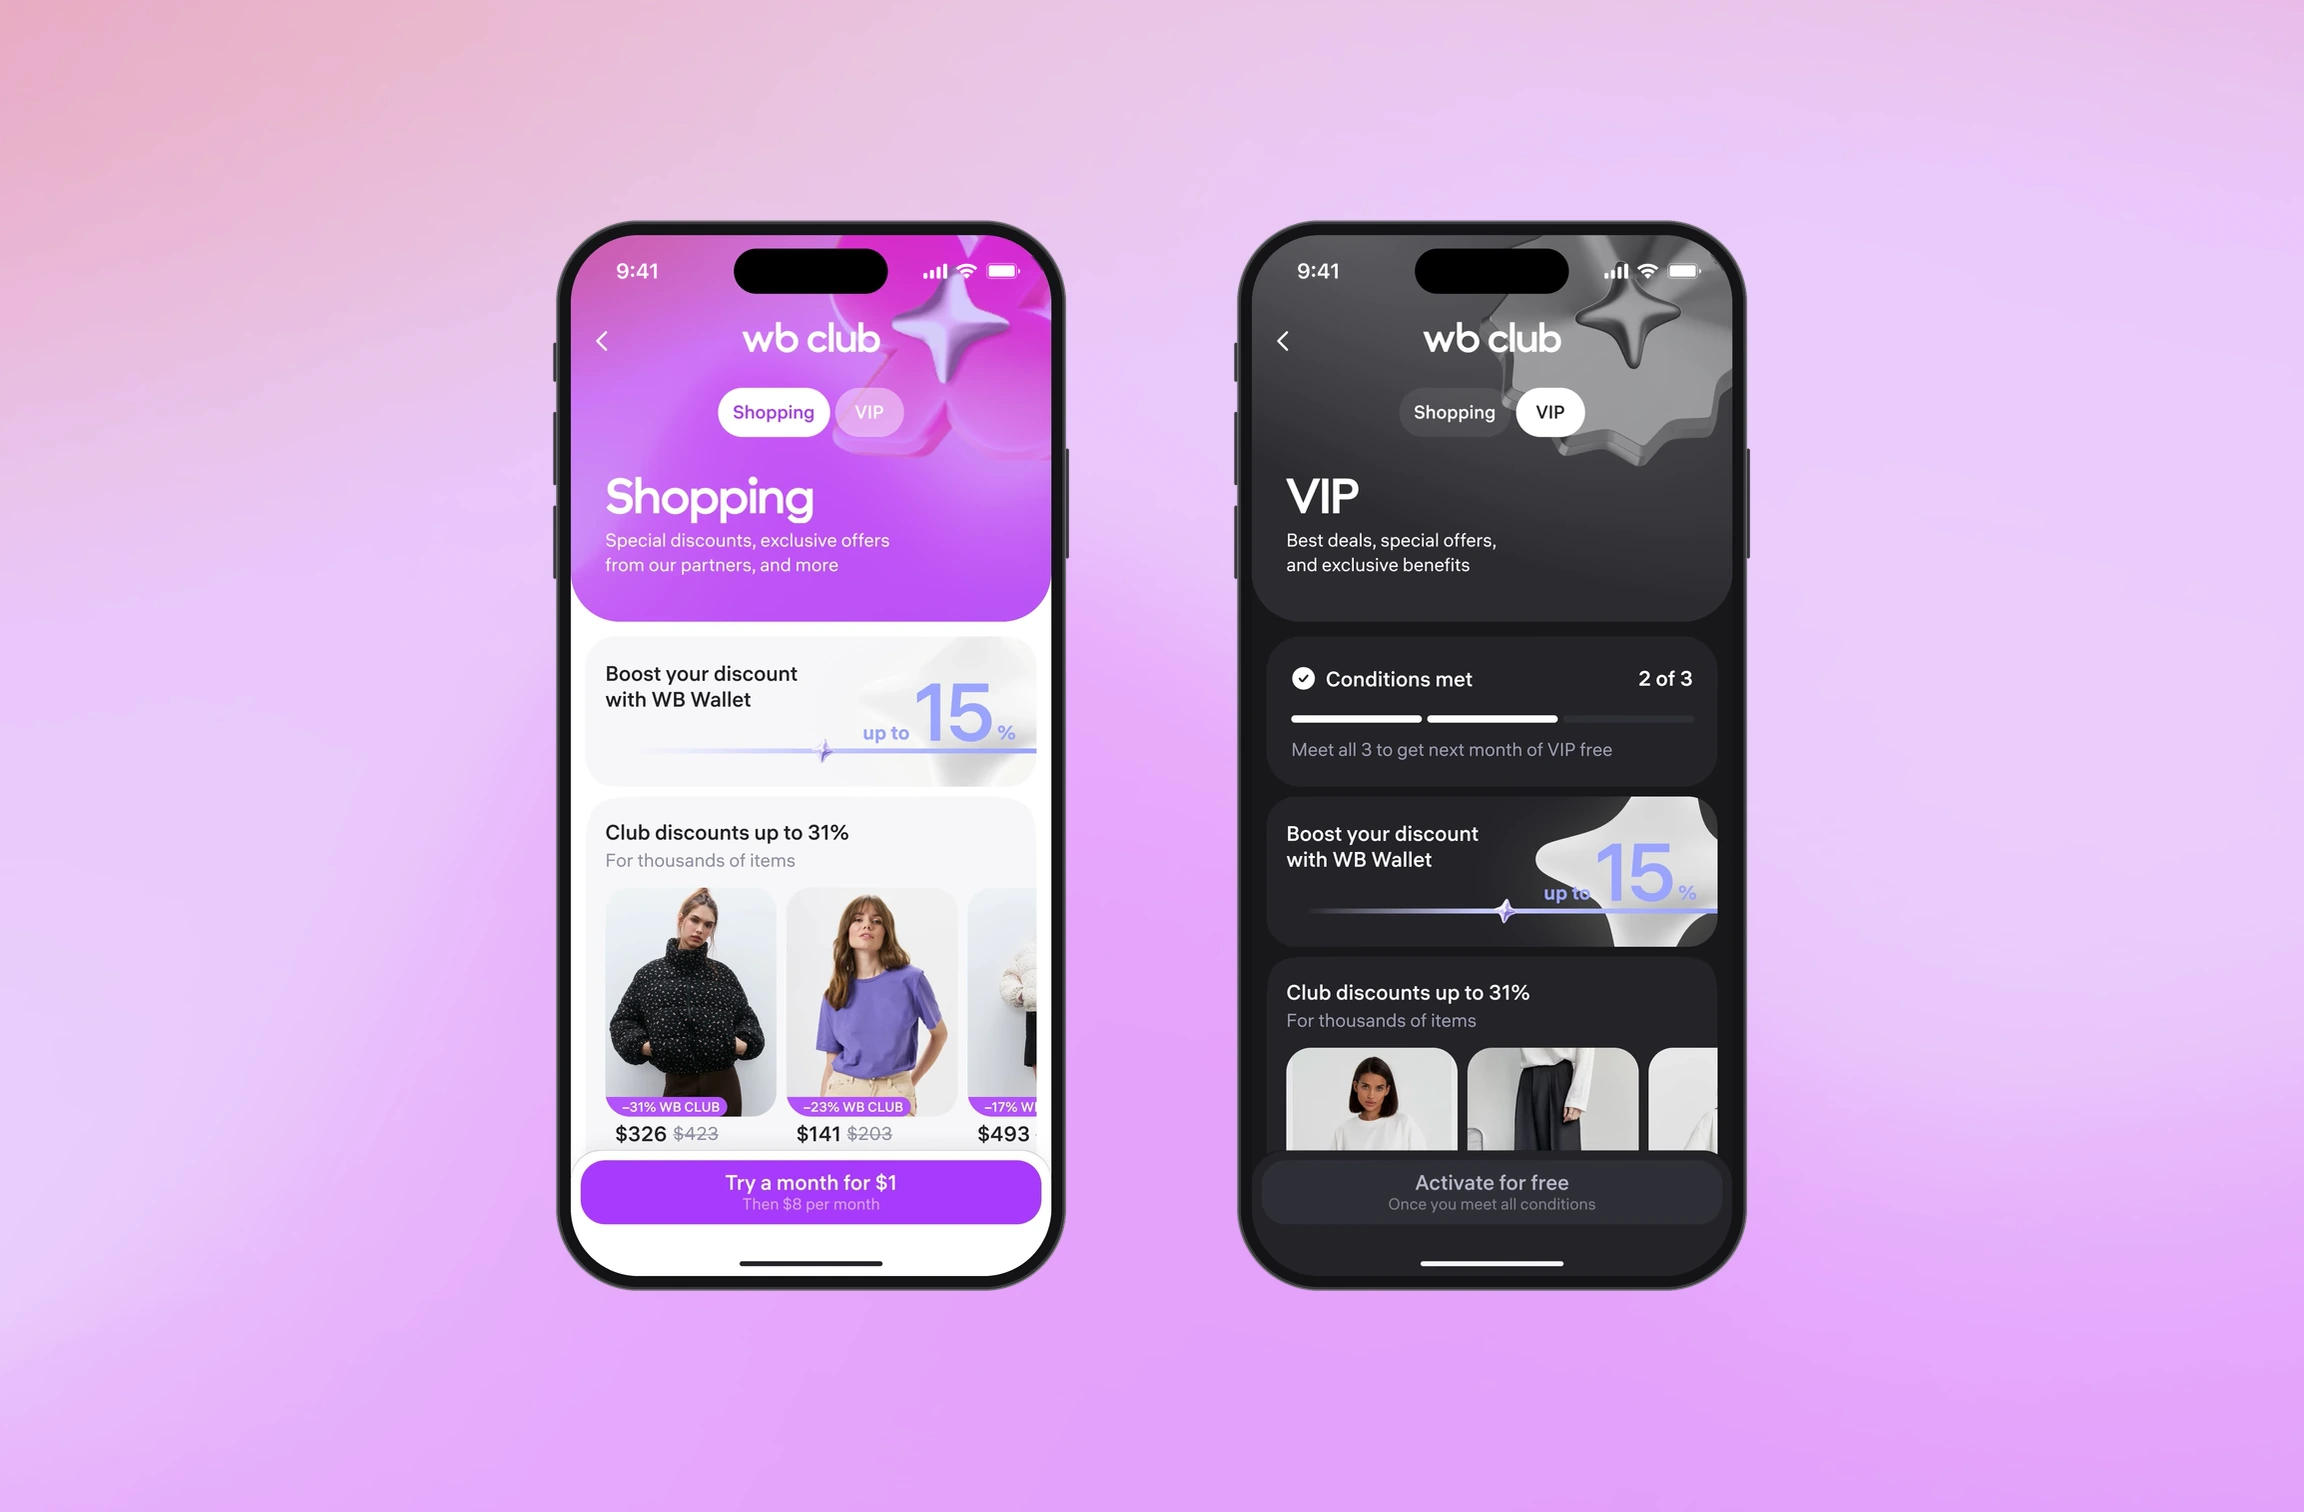
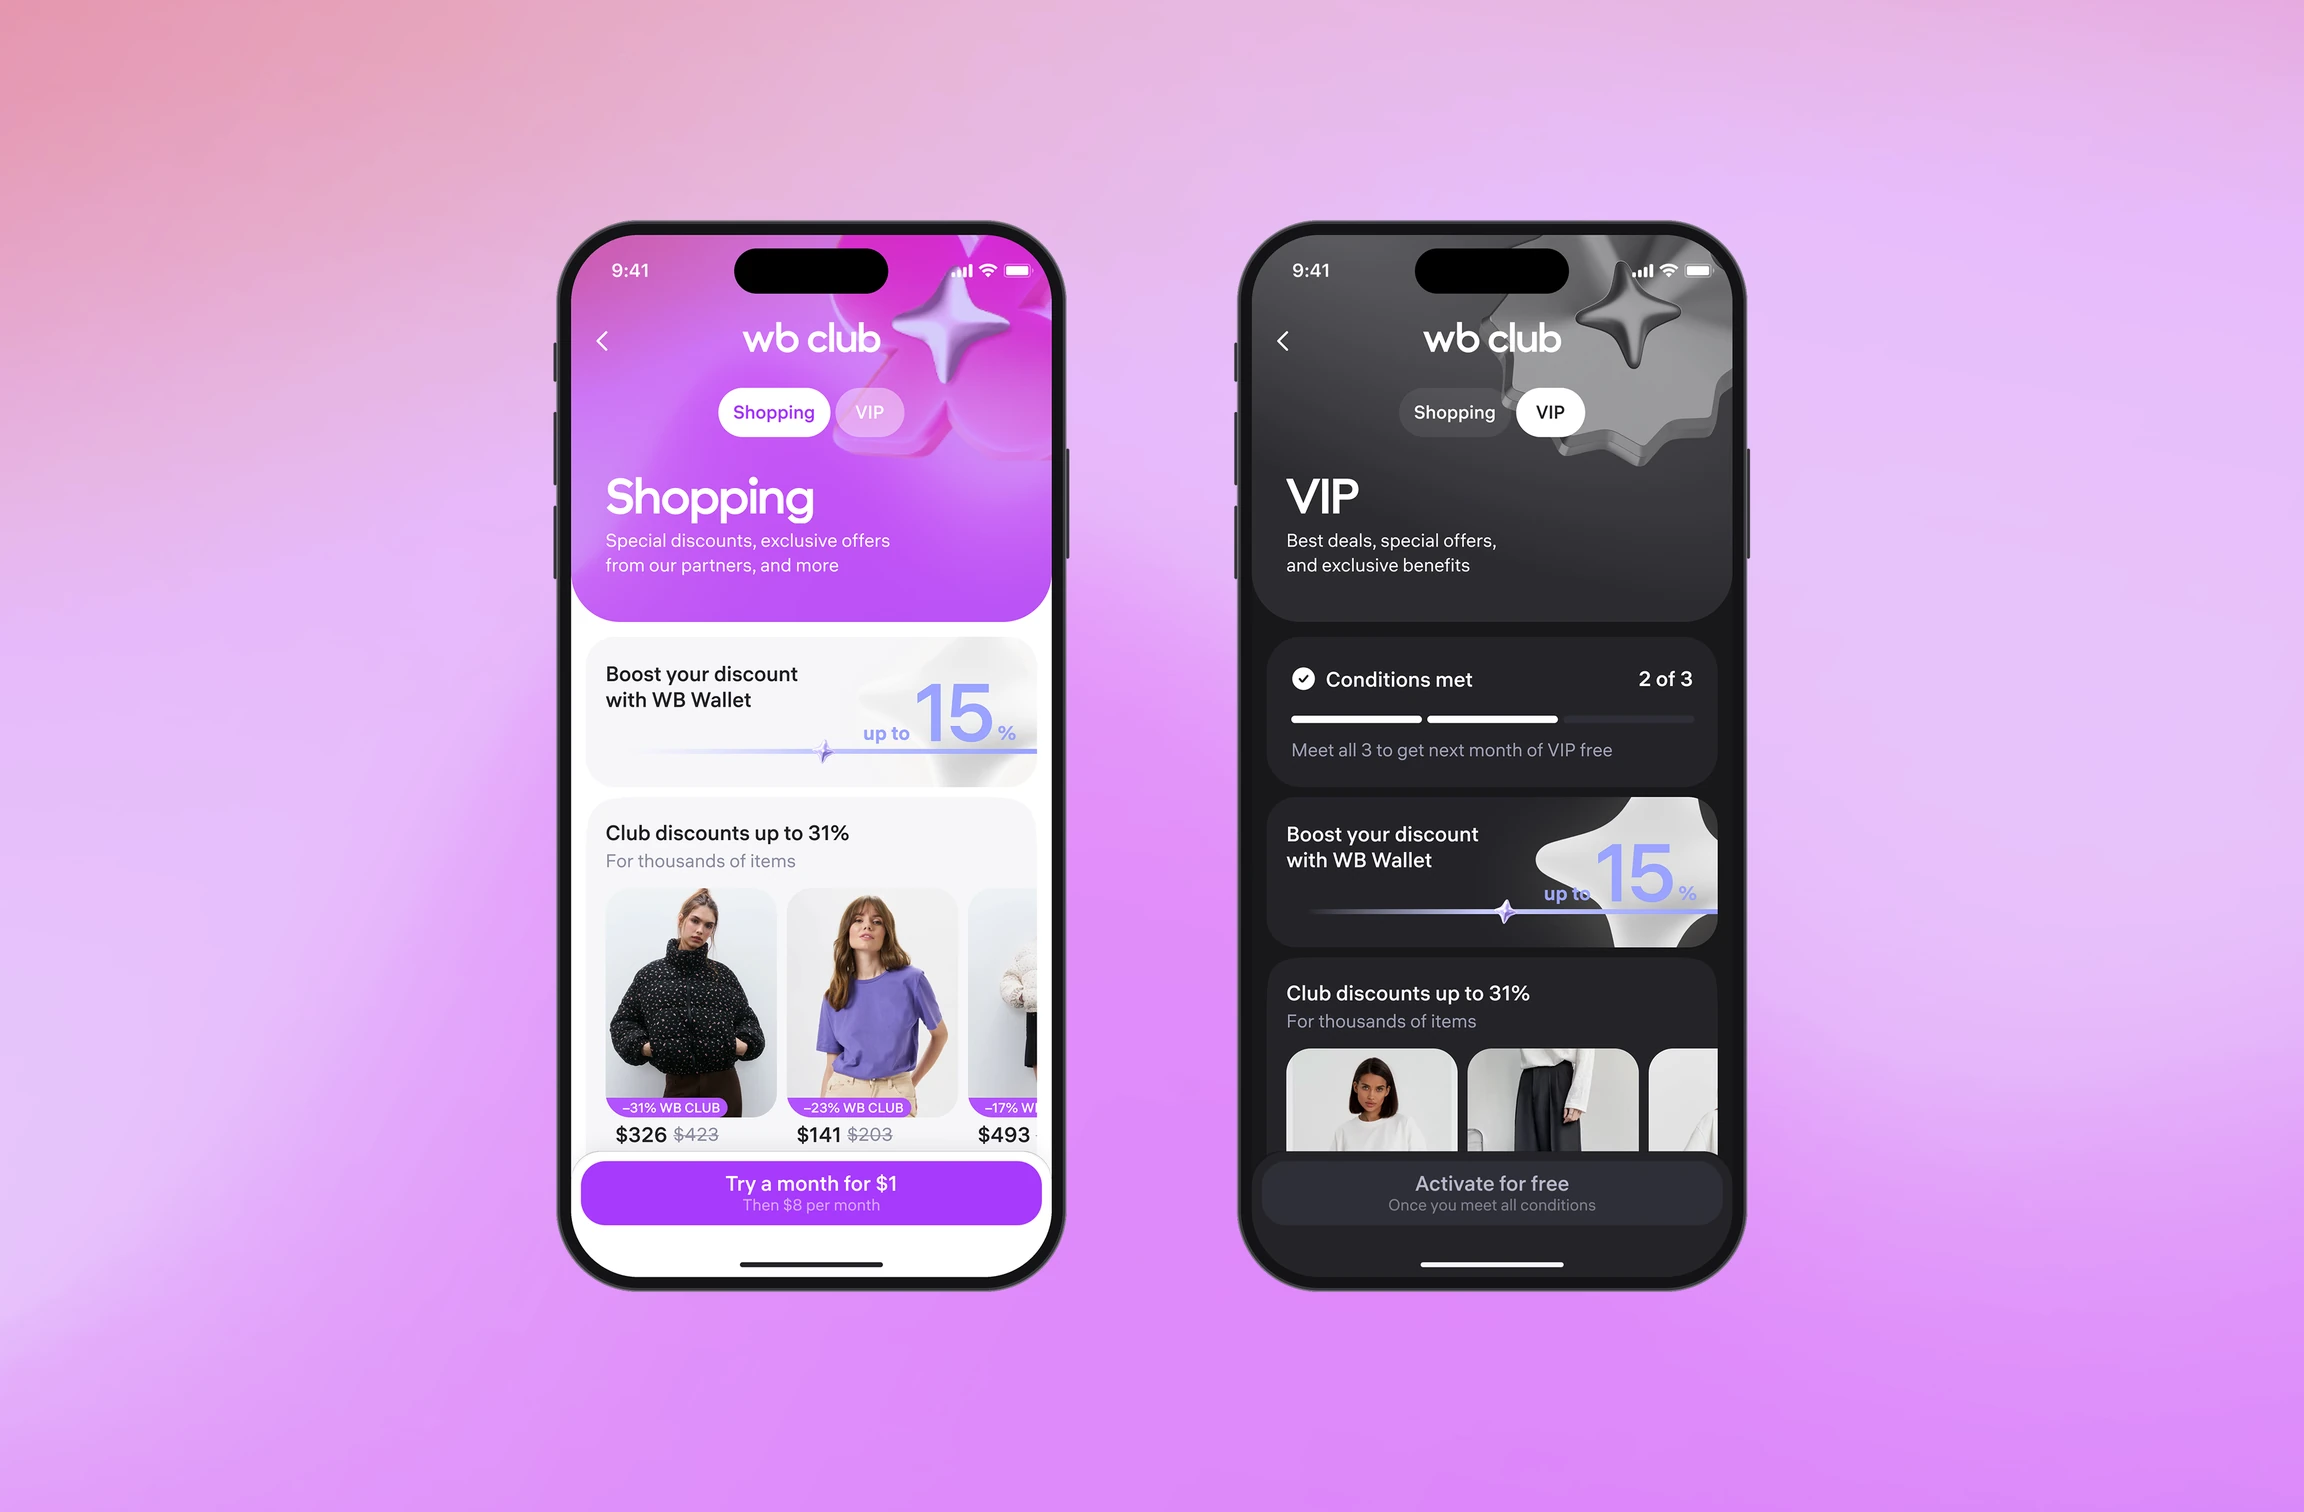
Home: WB Club carousel slide 1 is the static image again
Original wb-01 images and markup restored; the home-page hero video code is removed. The loop stays on the WB case page, whose cover image now uses its own files (wb-hero-poster-*).

Claude-Session: https://claude.ai/code/session_01VdL6cZAQ7t5avETjXA7i8N

diff --git a/index.html b/index.html
@@ -12,7 +12,7 @@
 <meta name="theme-color" content="#ffffff">
 <link rel="icon" href="/favicon.svg?v=3" type="image/svg+xml">
 <link rel="preload" href="/assets/fonts/als-hauss-var.woff2" as="font" type="font/woff2" crossorigin>
-<link rel="stylesheet" href="/styles.css?v=4144dc6d">
+<link rel="stylesheet" href="/styles.css?v=dbdcefb2">
 <script>
 /* Entrance motion: hide the animated elements before first paint (see the inline script at the end of <body>). Skipped with reduced motion; removed
    again if the motion script has not started within 3 s, so the page never stays blank. */
@@ -64,7 +64,7 @@ window.va('beforeSend',function(e){try{if(localStorage.getItem('notrack'))return
 
       <div class="carousel" tabindex="0" aria-label="WB Club screens">
         <div class="slide light" style="--w:768">
-          <div class="stage"><img fetchpriority="high" class="abs" style="inset:0;width:100%;height:100%;object-fit:cover" srcset="/assets/img/wb-01-1152.webp?v=51b91cca 1152w, /assets/img/wb-01-1728.webp?v=74cf2433 1728w, /assets/img/wb-01-2304.webp?v=f1b20932 2304w" sizes="(min-width: 1280px) 1152px, (min-width: 744px) 768px, 320px" src="/assets/img/wb-01-2304.webp?v=f1b20932" alt="WB Club Shopping and VIP screens on iPhones" decoding="async"><video class="abs hero-vid" style="inset:0;width:100%;height:100%;object-fit:cover" data-hero data-srcs="1152:/assets/video/wb-hero-1152.mp4?v=95079651,1728:/assets/video/wb-hero-1728.mp4?v=a5904b13,2304:/assets/video/wb-hero-2304.mp4?v=66fd4a66" autoplay loop muted playsinline preload="auto" aria-hidden="true" tabindex="-1"></video></div>
+          <div class="stage"><img fetchpriority="high" class="abs" style="inset:0;width:100%;height:100%;object-fit:cover" srcset="/assets/img/wb-01-1152.webp?v=fdb7a9e7 1152w, /assets/img/wb-01-1728.webp?v=1e6d7685 1728w, /assets/img/wb-01-2304.webp?v=18732f78 2304w, /assets/img/wb-01.webp?v=1378e9da 3456w" sizes="(min-width: 1280px) 1152px, (min-width: 744px) 768px, 320px" src="/assets/img/wb-01.webp?v=1378e9da" alt="WB Club Shopping and VIP screens on iPhones" decoding="async"></div>
         </div>
         <div class="slide light" style="--w:768">
           <div class="stage"><img class="abs" style="inset:0;width:100%;height:100%;object-fit:cover" srcset="/assets/img/wb-02-1152.webp?v=50ab05e6 1152w, /assets/img/wb-02-1728.webp?v=d87db6d1 1728w, /assets/img/wb-02-2304.webp?v=74618fc6 2304w, /assets/img/wb-02.webp?v=e735d605 3456w" sizes="(min-width: 1280px) 1152px, (min-width: 744px) 768px, 320px" src="/assets/img/wb-02.webp?v=e735d605" alt="WB Club VIP bottom sheets: how to get VIP, plan activation, pickup QR code" decoding="async"></div>
@@ -510,6 +510,6 @@ window.va('beforeSend',function(e){try{if(localStorage.getItem('notrack'))return
 })();
 </script>
 <script src="/analytics.js?v=9492ce8f" defer></script>
-<script src="/main.js?v=59264d5c" defer></script>
+<script src="/main.js?v=7d66ef64" defer></script>
 </body>
 </html>

diff --git a/wb-club.html b/wb-club.html
@@ -14,7 +14,7 @@
 <meta name="theme-color" content="#ffffff">
 <link rel="icon" href="/favicon.svg?v=3" type="image/svg+xml">
 <link rel="preload" href="/assets/fonts/als-hauss-var.woff2" as="font" type="font/woff2" crossorigin>
-<link rel="stylesheet" href="/styles.css?v=4144dc6d">
+<link rel="stylesheet" href="/styles.css?v=dbdcefb2">
 <link rel="stylesheet" href="/case.css?v=2c551211">
 <script>
 /* Entrance motion: hide the first screen before first paint (see the inline script at the end of the page). Skipped
@@ -57,7 +57,7 @@ window.va('beforeSend',function(e){try{if(localStorage.getItem('notrack'))return
     </dl>
   </div>
   <div class="hero hero--wb">
-    <img src="/assets/img/wb-01-2304.webp?v=f1b20932" srcset="/assets/img/wb-01-1152.webp?v=51b91cca 1152w, /assets/img/wb-01-1728.webp?v=74cf2433 1728w, /assets/img/wb-01-2304.webp?v=f1b20932 2304w" sizes="(min-width: 1312px) 1280px, (min-width: 744px) calc(100vw - 32px), calc(100vw - 24px)" width="2304" height="1512" alt="WB Club Shopping and VIP pages on two iPhones" fetchpriority="high" decoding="async">
+    <img src="/assets/img/wb-hero-poster-2304.webp?v=f1b20932" srcset="/assets/img/wb-hero-poster-1152.webp?v=51b91cca 1152w, /assets/img/wb-hero-poster-1728.webp?v=74cf2433 1728w, /assets/img/wb-hero-poster-2304.webp?v=f1b20932 2304w" sizes="(min-width: 1312px) 1280px, (min-width: 744px) calc(100vw - 32px), calc(100vw - 24px)" width="2304" height="1512" alt="WB Club Shopping and VIP pages on two iPhones" fetchpriority="high" decoding="async">
     <video class="hero-vid" data-srcs="1152:/assets/video/wb-hero-1152.mp4?v=95079651,1728:/assets/video/wb-hero-1728.mp4?v=a5904b13,2304:/assets/video/wb-hero-2304.mp4?v=66fd4a66" autoplay loop muted playsinline preload="auto" aria-hidden="true" tabindex="-1"></video>
   </div>
 </section>

diff --git a/main.js b/main.js
@@ -136,20 +136,6 @@ const afterFirst = new Promise((resolve) => {
 });
 window.__afterFirst = afterFirst;
 afterFirst.then(() => {
-  // The hero loop (slide 1) is the first thing on screen, so it goes first: it is fetched as soon as the first-screen images are in,
-  // before the rest of the slides. It sits on top of the static slide image (frame 0 of the video is that image) and fades in once
-  // its first frame is on screen. Skipped for Save-Data and reduced motion, where the static image simply stays.
-  document.querySelectorAll('video[data-hero]').forEach((v) => {
-    const c = navigator.connection;
-    if ((c && c.saveData) || (window.matchMedia && matchMedia('(prefers-reduced-motion: reduce)').matches)) return;
-    const need = v.getBoundingClientRect().width * Math.min(window.devicePixelRatio || 1, 3);   // device pixels the video is shown at
-    const opts = v.dataset.srcs.split(',').map((o) => { const i = o.indexOf(':'); return [+o.slice(0, i), o.slice(i + 1)]; });
-    v.src = (opts.find(([w]) => w >= need) || opts[opts.length - 1])[1];
-    const on = () => v.classList.add('is-on');
-    if ('requestVideoFrameCallback' in v) v.requestVideoFrameCallback(on);
-    v.addEventListener('playing', on, { once: true });   // whichever comes first (Safari may not report frames)
-    v.addEventListener('timeupdate', () => { if (v.currentTime > 0) on(); }, { once: true });
-  });
   const imgs = [...document.querySelectorAll('img[loading="lazy"]')];
   imgs.forEach((img) => { img.loading = 'eager'; });
   document.querySelectorAll('video[data-poster]').forEach((v) => { v.poster = v.dataset.poster; });

diff --git a/styles.css b/styles.css
@@ -171,8 +171,6 @@ img { display: block; }
 .stage--end { flex-direction: column; justify-content: flex-end; }
 .stage img, .stage video { -webkit-user-drag: none; user-select: none; }
 .box  { position: relative; flex: none; }
-.hero-vid { opacity: 0.001; }                /* slide-1 hero loop: shown by main.js once its first frame is on screen. Not 0: Safari doesn't decode/present fully transparent videos */
-.hero-vid.is-on { opacity: 1; }
 .abs  { position: absolute; }
 .crop { overflow: hidden; }
 .crop > img, .crop > video { position: absolute; max-width: none; }

diff --git a/go-invest.html b/go-invest.html
@@ -14,7 +14,7 @@
 <meta name="theme-color" content="#ffffff">
 <link rel="icon" href="/favicon.svg?v=3" type="image/svg+xml">
 <link rel="preload" href="/assets/fonts/als-hauss-var.woff2" as="font" type="font/woff2" crossorigin>
-<link rel="stylesheet" href="/styles.css?v=4144dc6d">
+<link rel="stylesheet" href="/styles.css?v=dbdcefb2">
 <link rel="stylesheet" href="/case.css?v=2c551211">
 <script>
 /* Entrance motion: hide the first screen before first paint (see the inline script at the end of the page). Skipped

diff --git a/intervals.html b/intervals.html
@@ -13,7 +13,7 @@
 <meta name="theme-color" content="#ffffff">
 <link rel="icon" href="/favicon.svg?v=3" type="image/svg+xml">
 <link rel="preload" href="/assets/fonts/als-hauss-var.woff2" as="font" type="font/woff2" crossorigin>
-<link rel="stylesheet" href="/styles.css?v=4144dc6d">
+<link rel="stylesheet" href="/styles.css?v=dbdcefb2">
 <link rel="stylesheet" href="/case.css?v=2c551211">
 <script>
 /* Entrance motion: hide the first screen before first paint (see the inline script at the end of the page). Skipped

diff --git a/new-radio.html b/new-radio.html
@@ -13,7 +13,7 @@
 <meta name="theme-color" content="#ffffff">
 <link rel="icon" href="/favicon.svg?v=3" type="image/svg+xml">
 <link rel="preload" href="/assets/fonts/als-hauss-var.woff2" as="font" type="font/woff2" crossorigin>
-<link rel="stylesheet" href="/styles.css?v=4144dc6d">
+<link rel="stylesheet" href="/styles.css?v=dbdcefb2">
 <link rel="stylesheet" href="/case.css?v=2c551211">
 <script>
 /* Entrance motion: hide the first screen before first paint (see the inline script at the end of the page). Skipped

diff --git a/strelka.html b/strelka.html
@@ -13,7 +13,7 @@
 <meta name="theme-color" content="#ffffff">
 <link rel="icon" href="/favicon.svg?v=3" type="image/svg+xml">
 <link rel="preload" href="/assets/fonts/als-hauss-var.woff2" as="font" type="font/woff2" crossorigin>
-<link rel="stylesheet" href="/styles.css?v=4144dc6d">
+<link rel="stylesheet" href="/styles.css?v=dbdcefb2">
 <link rel="stylesheet" href="/case.css?v=2c551211">
 <script>
 /* Entrance motion: hide the first screen before first paint (see the inline script at the end of the page). Skipped
